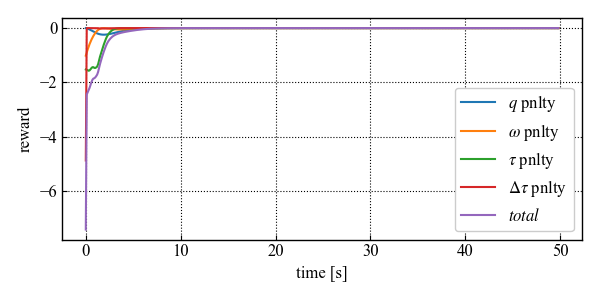
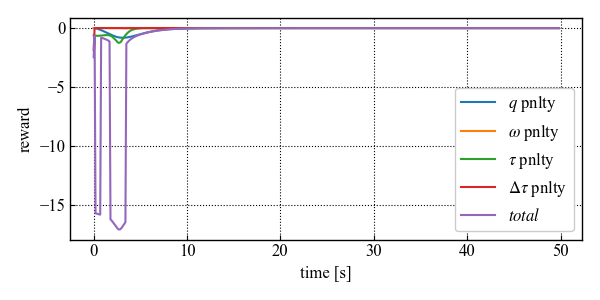
CHANGE: batch size 32

diff --git a/td3/train.py b/td3/train.py
@@ -17,10 +17,10 @@ def train():
     #logger
     wandb.init(project='Para-Tune-RL-TD3',
         config={
-        "batch_size": 128,
+        "batch_size": 32,
         "critic_lr": 1e-3,
         "actor_lr": 1e-4,
-        "max_episodes": 5000,
+        "max_episodes": 10000,
         "max_steps": 500,
         "gamma": 0.99,
         "tau" : 1e-3,
